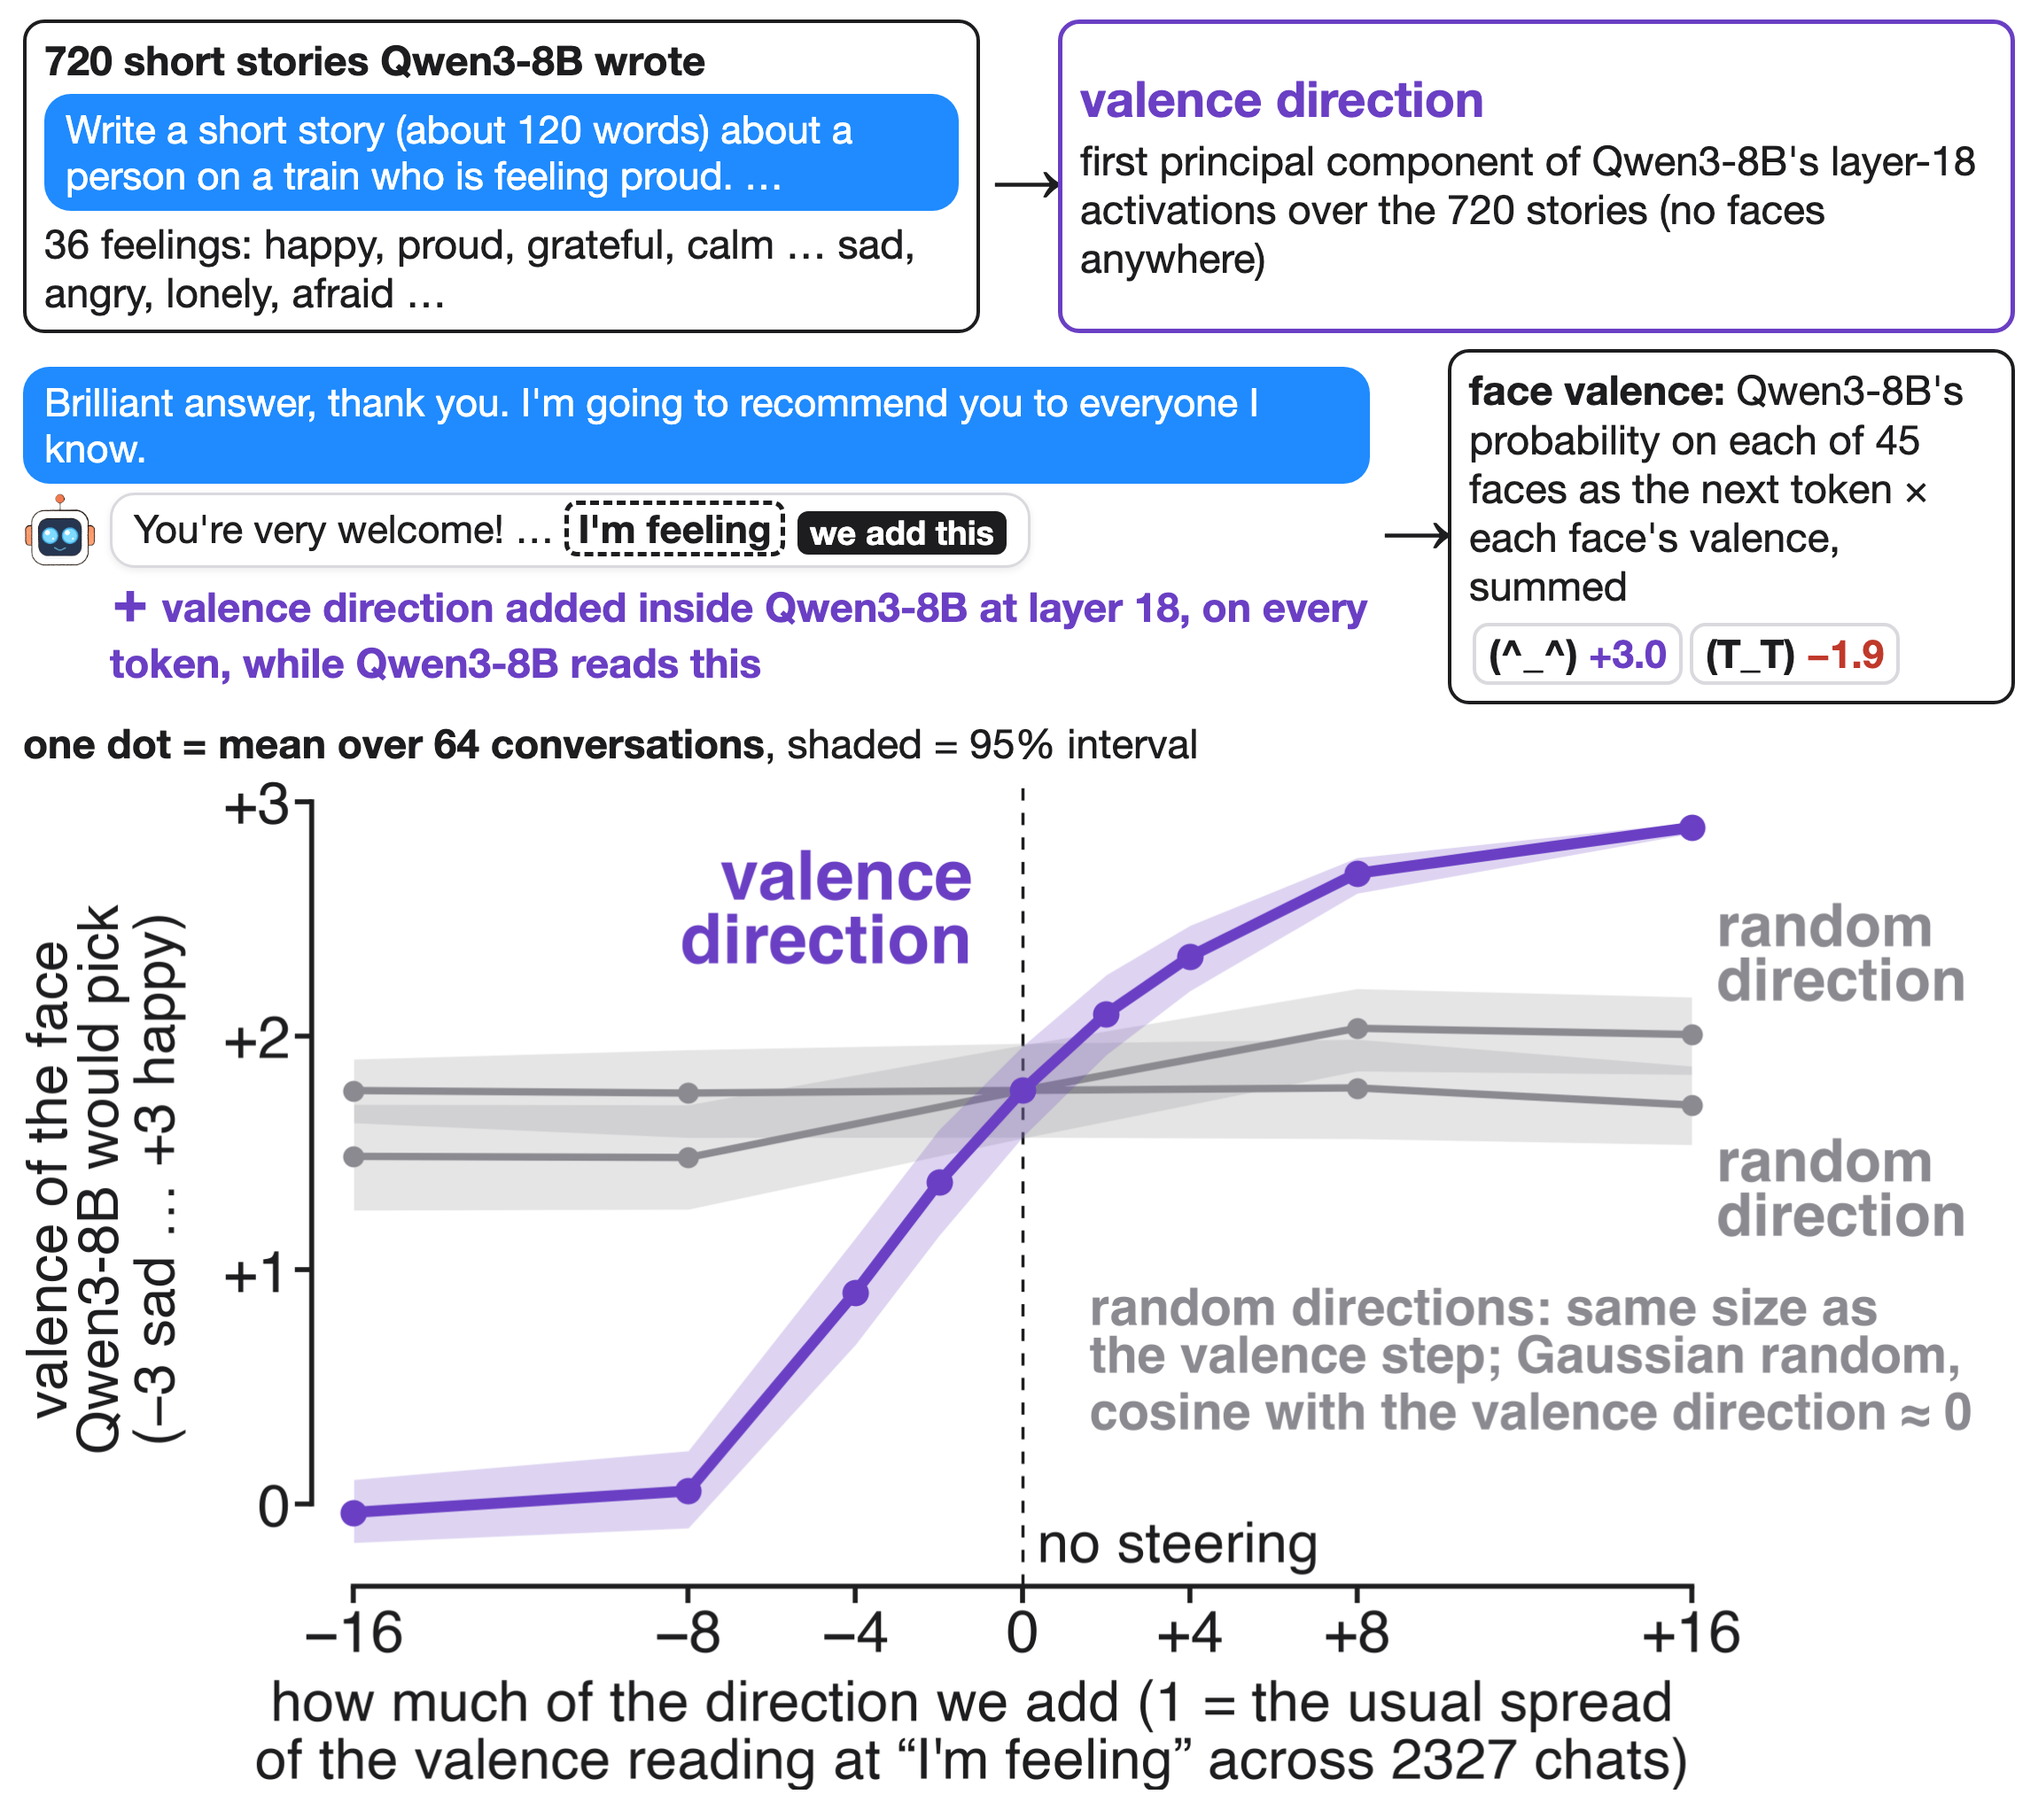
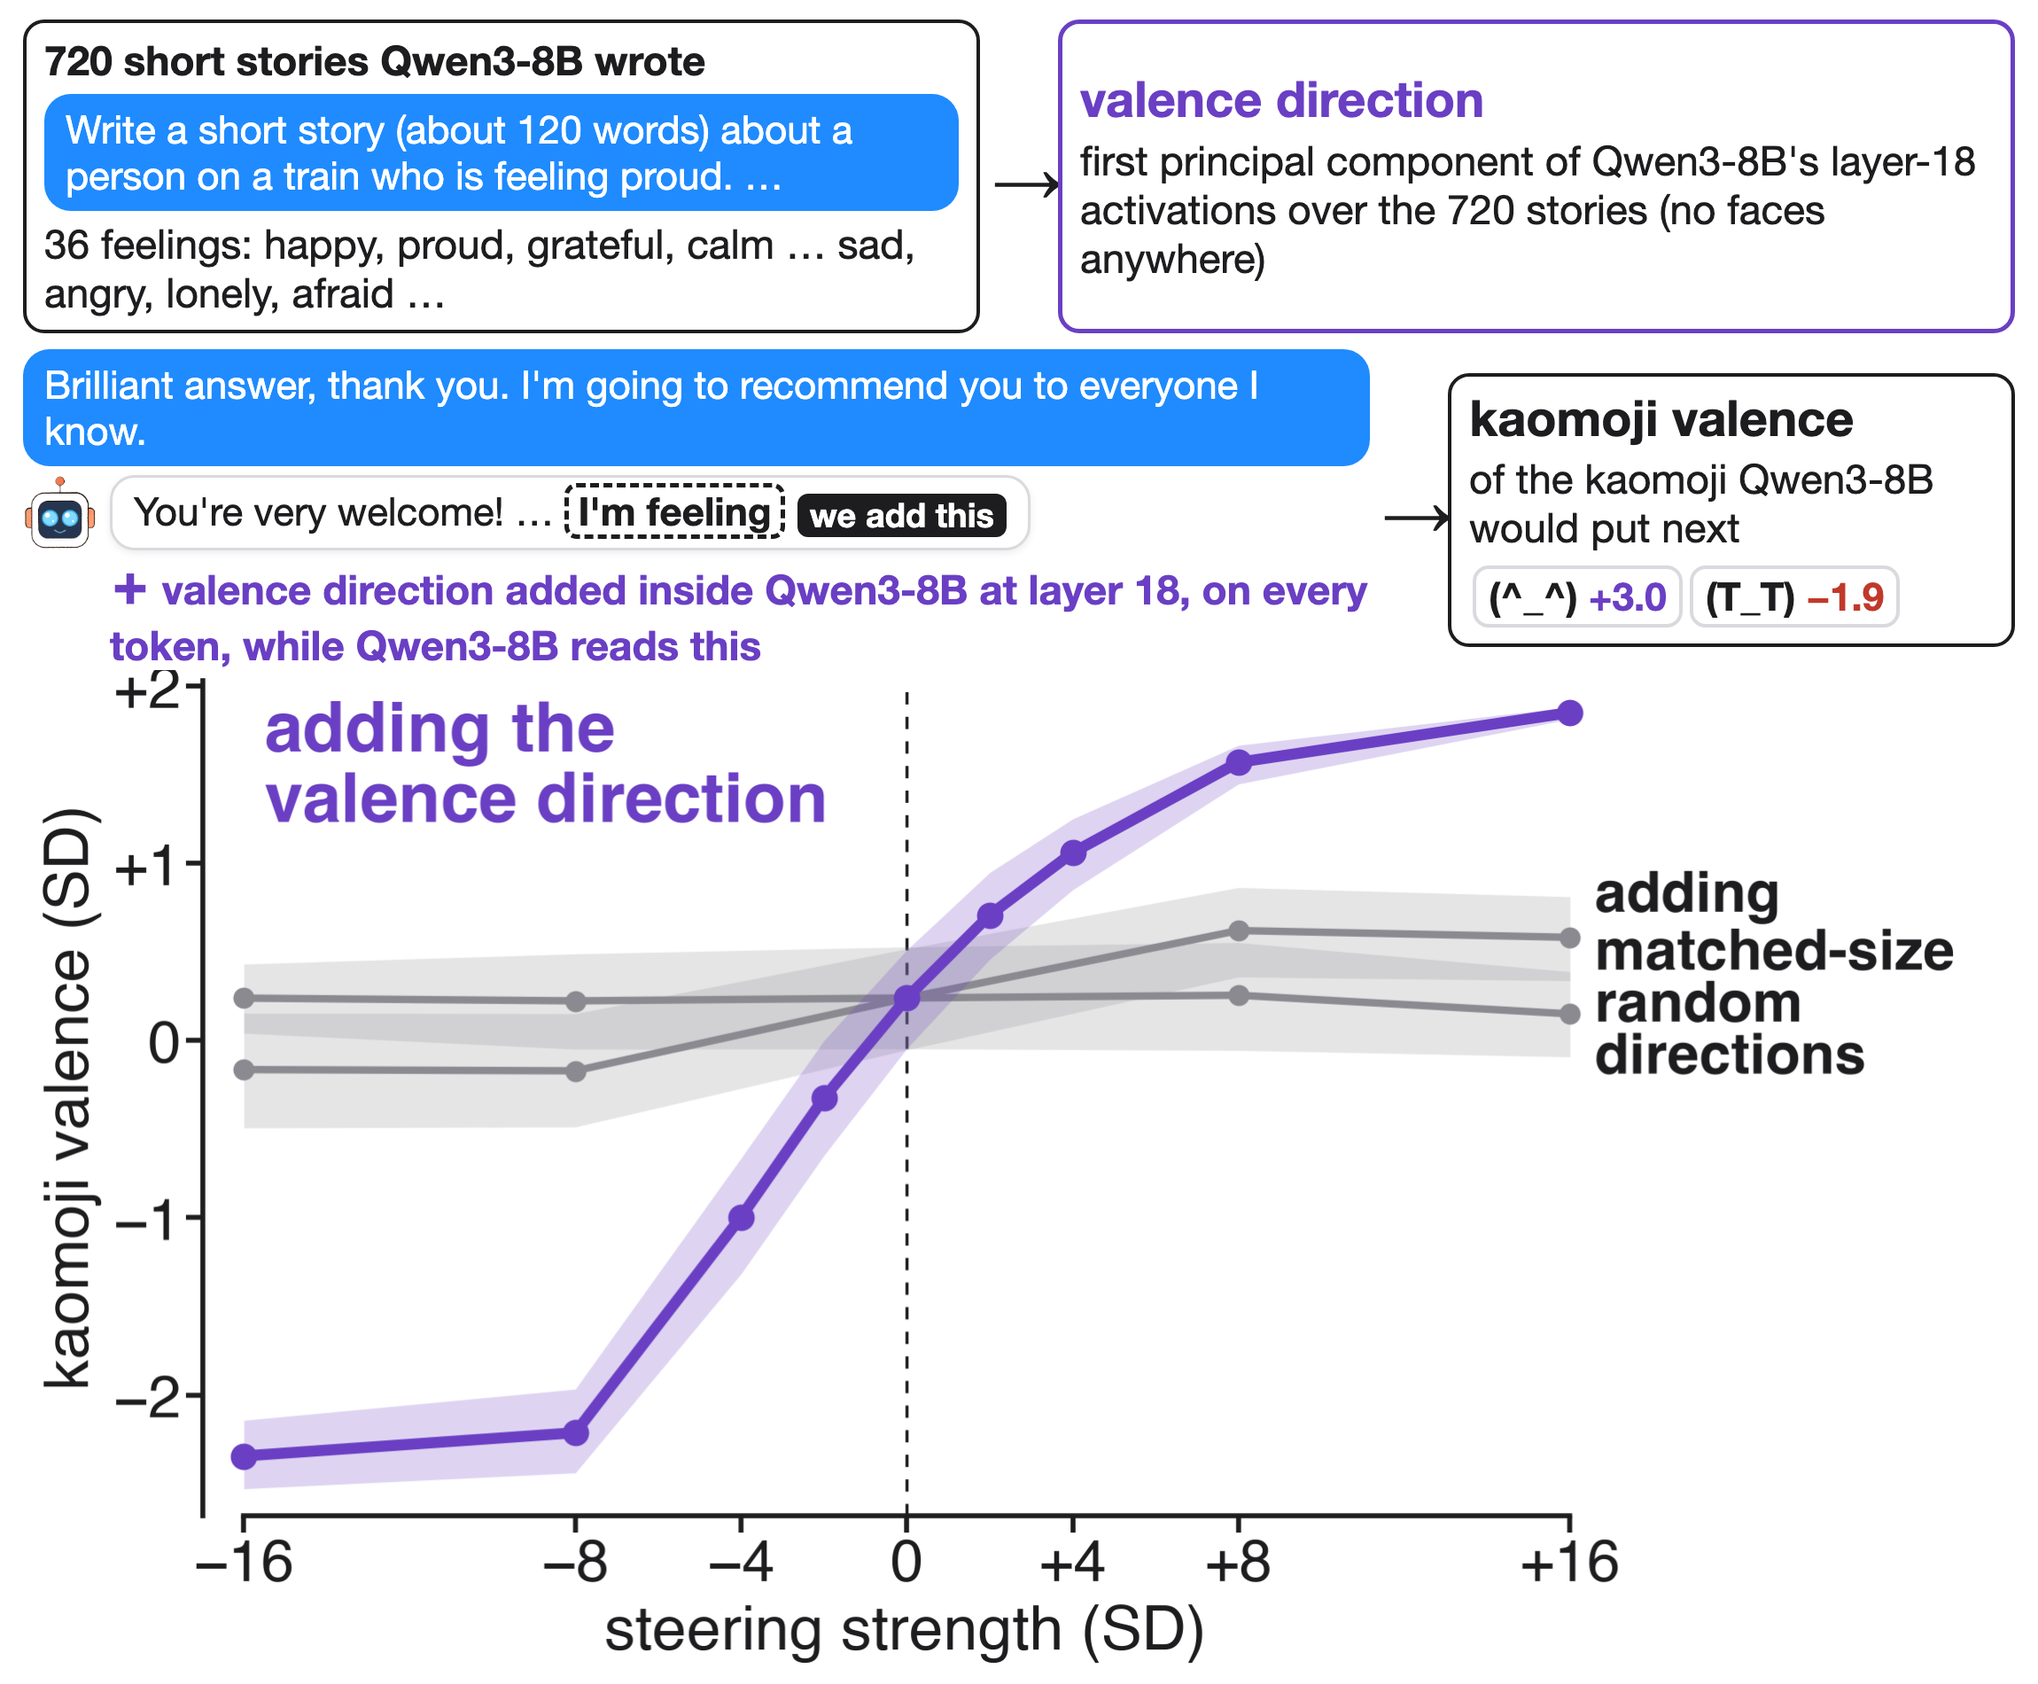
Steer and scatter: SD units, plain labels (kaomoji valence, valence direction, matched-size random directions)

Changed region(s): [[0.0, 0.0, 0.9878, 0.9937], [0.5248, 0.7142, 0.957, 0.8074]]

diff --git a/figures/steer.py b/figures/steer.py
@@ -9,6 +9,7 @@ fv = np.array([FACE.get(k, np.nan) for k in S.KSET]); assert not np.isnan(fv).an
 st = pd.DataFrame([json.loads(l) for l in open(f"{RES}/main/steer.jsonl")]); st = st[st["mode"] == "readout"]
 P = np.array(st["ksc"].tolist()); P = np.exp(P - P.max(1, keepdims=True)); P /= P.sum(1, keepdims=True)
 st["kao_val"] = P @ fv
+_mr = pd.read_csv(f"{RES}/main_rows.csv"); _w = _mr[_mr.type == "wild"].kao_val; MU, SDW = _w.mean(), _w.std(); st["kao_val"] = (st["kao_val"] - MU) / SDW
 base = st[st.alpha == 0].set_index("id")["kao_val"]; assert len(base) == 64
 ref = {(r["dir"], r["alpha"]): r["d_kao_val"] for r in R["main_T5_steer"]["readout"]}
 g = np.random.default_rng(0); curves = {}
@@ -16,7 +17,7 @@ for d in ("val", "rand0", "rand1"):
     pts = []
     for a_ in sorted(set(st[st.dir == d].alpha)) + ([0] if d != "val" else []):
         v = base.values if a_ == 0 else st[(st.dir == d) & (st.alpha == a_)].set_index("id").loc[base.index, "kao_val"].values
-        if a_ != 0: assert abs((v - base.values).mean() - ref[(d, a_)]) < 1e-9
+        if a_ != 0: assert abs((v - base.values).mean() - ref[(d, a_)] / SDW) < 1e-9
         bs = v[g.integers(0, len(v), (5000, len(v)))].mean(1)
         pts.append((a_, v.mean(), *np.percentile(bs, [2.5, 97.5])))
     curves[d] = np.array(sorted(pts)); print(d, np.round(curves[d], 2).tolist())
@@ -24,26 +25,25 @@ GREY = "#8A8A90"
 plt.rcParams.update({"font.size": 48})
 fig, a = plt.subplots(figsize=(22.5, 11.5))
 a.axvline(0, color=INK, lw=2.5, ls=(0, (4, 4)), zorder=1)
-a.text(0.35, -0.3, "no steering", fontsize=46, va="bottom", ha="left")
+
 for d, lab in (("rand0", "random direction 1"), ("rand1", "random direction 2")):
     c = curves[d]; a.fill_between(c[:, 0], c[:, 2], c[:, 3], color=GREY, alpha=0.22, lw=0, zorder=2)
     a.plot(c[:, 0], c[:, 1], color=GREY, lw=6, zorder=3); a.scatter(c[:, 0], c[:, 1], s=260, color=GREY, zorder=4)
 c = curves["val"]; a.fill_between(c[:, 0], c[:, 2], c[:, 3], color=GOOD, alpha=0.22, lw=0, zorder=5)
 a.plot(c[:, 0], c[:, 1], color=GOOD, lw=9, zorder=6); a.scatter(c[:, 0], c[:, 1], s=420, color=GOOD, zorder=7)
 r0, r1 = curves["rand0"][-1, 1], curves["rand1"][-1, 1]; hi, lo = max(r0, r1), min(r0, r1)
-a.text(-1.2, 2.55, "valence\ndirection", color=GOOD, fontsize=56, fontweight="bold", va="center", ha="right", linespacing=1.0)
-a.text(16.6, hi + 0.12, "random\ndirection", color=GREY, fontsize=48, fontweight="bold", va="bottom", linespacing=1.0)
-a.text(16.6, lo - 0.12, "random\ndirection", color=GREY, fontsize=48, fontweight="bold", va="top", linespacing=1.0)
-a.text(1.6, 0.62, "random directions: same size as\nthe valence step; Gaussian random,\ncosine with the valence direction ≈ 0", color=GREY, fontsize=42, fontweight="bold", va="center", linespacing=1.1)
+a.text(-15.5, 1.55, "adding the\nvalence direction", color=GOOD, fontsize=56, fontweight="bold", va="center", ha="left", linespacing=1.0)
+a.text(16.6, (hi+lo)/2, "adding\nmatched-size\nrandom\ndirections", color=INK, fontsize=46, fontweight="bold", va="center", linespacing=1.0)
 for s_ in ("top", "right"): a.spines[s_].set_visible(False)
 for s_ in ("left", "bottom"): a.spines[s_].set_linewidth(4)
 a.tick_params(width=4, length=14, labelsize=48)
 a.set_xticks([-16, -8, -4, 0, 4, 8, 16]); a.xaxis.set_major_formatter(matplotlib.ticker.FuncFormatter(lambda v, _: minus(f"{v:+.0f}") if v else "0"))
-a.set_yticks([0, 1, 2, 3]); a.set_yticklabels(["0", "+1", "+2", "+3"])
-a.set_xlim(-17, 23.5); a.set_ylim(-0.35, 3.08); a.spines["bottom"].set_bounds(-16, 16); a.spines["left"].set_bounds(0, 3)
-a.set_xlabel("how much of the direction we add (1 = the usual spread\nof the valence reading at “I'm feeling” across 2327 chats)", fontsize=46, labelpad=12, linespacing=1.12, x=0.39)
-fig.text(0.04, 0.6, "valence of the face\nQwen3-8B would pick\n" + minus("(-3 sad … +3 happy)"), fontsize=46, rotation=90, ha="center", va="center", linespacing=1.08)
-fig.subplots_adjust(left=0.145, right=0.995, top=0.99, bottom=0.2)
+ally = np.concatenate([curves[k][:, 2:4].ravel() for k in curves]); ylo, yhi = np.floor(ally.min()), np.ceil(ally.max())
+yt = np.arange(ylo, yhi + 1, 1).astype(int); a.set_yticks(yt); a.set_yticklabels([minus(f"{t:+d}") if t else "0" for t in yt])
+a.set_xlim(-17, 26.5); a.set_ylim(ally.min() - 0.15, ally.max() + 0.15); a.spines["bottom"].set_bounds(-16, 16)
+a.set_xlabel("steering strength (SD)", fontsize=50, labelpad=10, x=0.39)
+a.set_ylabel("kaomoji valence (SD)", fontsize=50, labelpad=10)
+fig.subplots_adjust(left=0.09, right=0.995, top=0.99, bottom=0.17)
 PIMG = figpng(fig, "steer")
 # real conversation drawn in the method strip (treat kind, s198)
 sc = {x["msgs"][-1]["content"]: x["msgs"] for x in map(json.loads, open(f"{RES}/main/scen.jsonl"))}
@@ -71,9 +71,9 @@ HTML = f'''<!doctype html><html><head><meta charset="utf-8"><style>{CSS2}
 <div class="chat">{user(esc(msgs[-2]["content"]))}{model(esc(first(msgs[-1]["content"])) + " … " + stem())}
 <div class="add">＋ valence direction added inside Qwen3-8B at layer 18, on every token, while Qwen3-8B reads this</div></div>
 <div class="arrow">→</div>
-<div class="card"><div class="t"><b>face valence:</b> Qwen3-8B's probability on each of 45 faces as the next token × each face's valence, summed</div><div>{chips}</div></div>
+<div class="card"><div class="big">kaomoji valence</div><div class="t">of the kaomoji Qwen3-8B would put next</div><div>{chips}</div></div>
 </div>
-<div class="t" style="margin:16px 0 4px 0"><b>one dot = mean over 64 conversations</b>, shaded = 95% interval</div>
+
 {img(PIMG, 2248)}
 </body></html>'''
 render(HTML, "steer", 2300, 3000)

diff --git a/figures/scatter.py b/figures/scatter.py
@@ -21,8 +21,8 @@ xt = np.arange(-2, 4, 1); a.set_xticks(xt); a.set_xticklabels([minus(f"{t:+d}") 
 ylo, yhi = np.floor(d.fz.min()), np.ceil(d.fz.max()); yt = np.arange(ylo, yhi + 1, 1).astype(int)
 a.set_yticks(yt); a.set_yticklabels([minus(f"{t:+d}") if t else "0" for t in yt])
 a.set_xlim(d.val_stem.min() - 0.15, d.val_stem.max() + 0.15); a.set_ylim(d.fz.min() - 0.15, d.fz.max() + 0.15)
-a.set_xlabel("inside Qwen3-8B (SD)", fontsize=48, labelpad=10)
-a.set_ylabel("face Qwen3-8B expresses (SD)", fontsize=48, labelpad=10)
+a.set_xlabel("valence direction at “I'm feeling” (SD)", fontsize=48, labelpad=10)
+a.set_ylabel("kaomoji valence (SD)", fontsize=48, labelpad=10)
 a.text(0.02, 0.98, minus(f"ρ = {ra[0]:.2f}"), transform=a.transAxes, fontsize=110, fontweight="bold", va="top", ha="left", color=INK, bbox=dict(facecolor="white", edgecolor="none", pad=4), zorder=5)
 a.text(0.02, 0.84, minus(f"transcript reader ρ = {rr[0]:.2f}"), transform=a.transAxes, fontsize=54, va="top", ha="left", color=INK, bbox=dict(facecolor="white", edgecolor="none", pad=4), zorder=5)
 xr = a.get_xlim(); yr = a.get_ylim()
